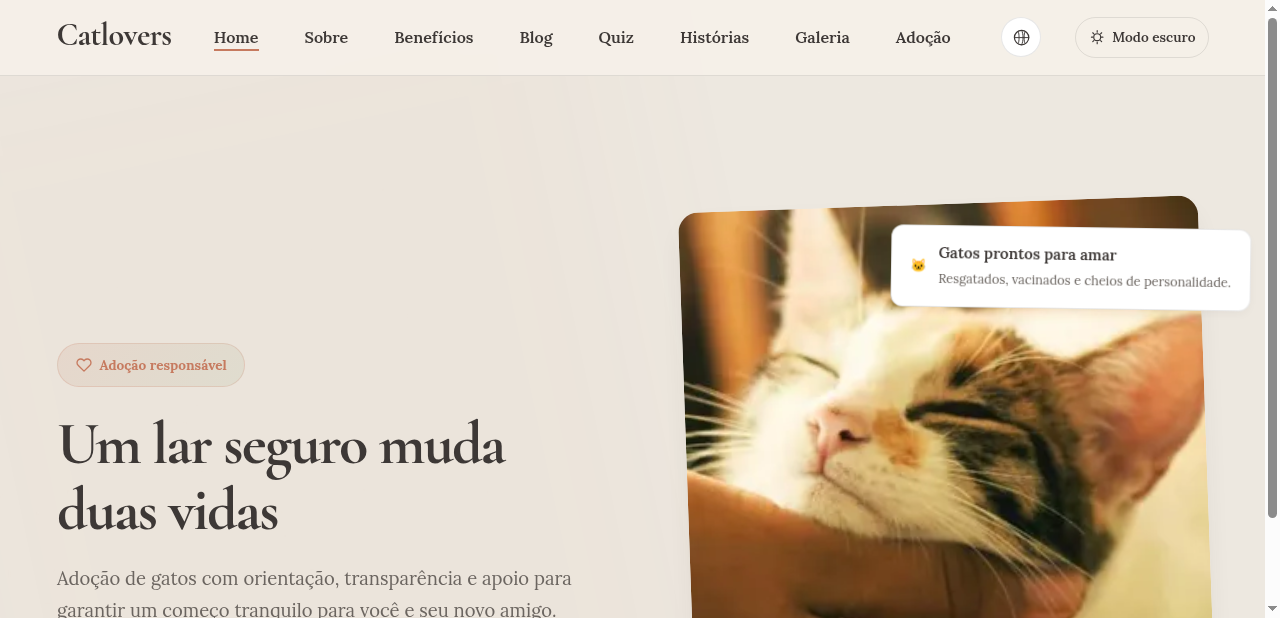
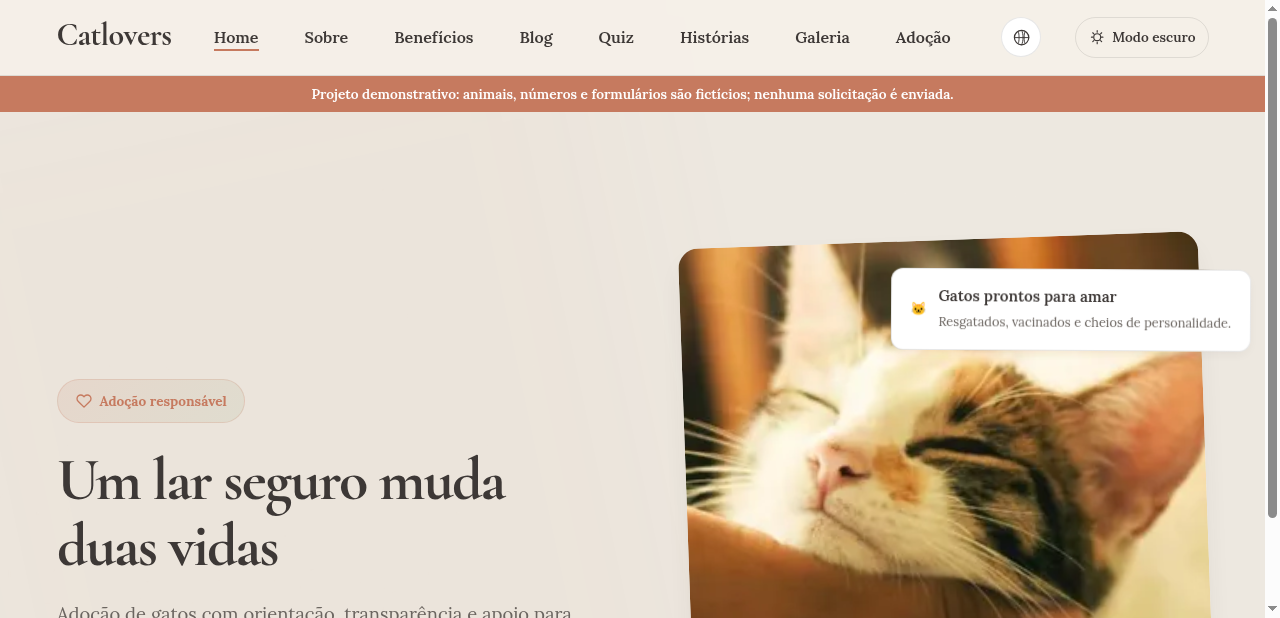
fix(product): label demonstration flows honestly

diff --git a/js/form-validation.js b/js/form-validation.js
@@ -1,6 +1,14 @@
 document.addEventListener('DOMContentLoaded', () => {
   const form = document.getElementById('adoption-form');
   if (!form) return;
+  const submitButton = form.querySelector('button[type="submit"]');
+  const originalSubmitI18n = submitButton.getAttribute('data-i18n') || 'form.submit';
+
+  const resetSubmitState = () => {
+    submitButton.setAttribute('data-i18n', originalSubmitI18n);
+    submitButton.classList.remove('button--success');
+    if (window.catloversTranslator) window.catloversTranslator.translatePageTo(window.catloversTranslator.currentLanguage);
+  };
 
   const validateField = (field) => {
     const errorSpan = document.getElementById(`${field.id}-error`);
@@ -31,9 +39,7 @@ document.addEventListener('DOMContentLoaded', () => {
     return isValid;
   };
 
-  const delay = (ms) => new Promise(resolve => setTimeout(resolve, ms));
-
-  form.addEventListener('submit', async (e) => {
+  form.addEventListener('submit', (e) => {
     e.preventDefault();
 
     let isFormValid = true;
@@ -46,27 +52,10 @@ document.addEventListener('DOMContentLoaded', () => {
     });
 
     if (isFormValid) {
-      // Simulate form submission
-      const btn = form.querySelector('button');
-      const originalI18n = btn.getAttribute('data-i18n') || 'form.submit';
-
-      btn.setAttribute('data-i18n', 'form.sending');
-      if (window.catloversTranslator) window.catloversTranslator.translatePageTo(window.catloversTranslator.currentLanguage);
-      btn.disabled = true;
-
-      await delay(1500);
-
-      btn.setAttribute('data-i18n', 'form.success');
-      btn.classList.add('button--success');
+      submitButton.setAttribute('data-i18n', 'form.success');
+      submitButton.classList.add('button--success');
       if (window.catloversTranslator) window.catloversTranslator.translatePageTo(window.catloversTranslator.currentLanguage);
       form.reset();
-
-      await delay(3000);
-
-      btn.setAttribute('data-i18n', originalI18n);
-      btn.classList.remove('button--success');
-      if (window.catloversTranslator) window.catloversTranslator.translatePageTo(window.catloversTranslator.currentLanguage);
-      btn.disabled = false;
     } else {
       // Focus on first invalid field for accessibility
       const firstInvalid = form.querySelector('[aria-invalid=\'true\']');
@@ -81,4 +70,10 @@ document.addEventListener('DOMContentLoaded', () => {
       validateField(e.target);
     }
   }, true);
+
+  form.addEventListener('input', () => {
+    if (submitButton.getAttribute('data-i18n') === 'form.success') {
+      resetSubmitState();
+    }
+  });
 });

diff --git a/cypress/e2e/adoption-form.cy.js b/cypress/e2e/adoption-form.cy.js
@@ -1,10 +1,14 @@
 describe('Adoção Page', () => {
   beforeEach(() => {
-    // Acessar a página de adoção localmente
-    cy.visit('/adoption.html');
+    cy.visit('/adoption.html', {
+      onBeforeLoad(win) {
+        win.localStorage.setItem('preferred_language', 'pt_BR');
+      }
+    });
   });
 
   it('deve carregar o formulário de adoção corretamente', () => {
+    cy.get('.demo-notice').should('be.visible').and('contain.text', 'Projeto demonstrativo');
     cy.get('h2[data-i18n="form.title"]').scrollIntoView().should('be.visible');
     cy.get('form#adoption-form').should('be.visible');
   });
@@ -20,14 +24,16 @@ describe('Adoção Page', () => {
     cy.get('#email-error').should('not.be.empty');
   });
 
-  it('deve submeter o formulário quando preenchido corretamente', () => {
+  it('deve validar o formulário sem afirmar que os dados foram enviados', () => {
     cy.get('#name').type('Lucas Alves');
     cy.get('#email').type('lucas@example.com');
     
     cy.get('form#adoption-form button').click();
     
-    // Verifica se o texto do botão muda indicando sucesso
     cy.get('form#adoption-form button')
-      .should('have.attr', 'data-i18n', 'form.success');
+      .should('have.attr', 'data-i18n', 'form.success')
+      .and('contain.text', 'Nenhum dado foi enviado');
+    cy.get('#name').should('have.value', '');
+    cy.get('#email').should('have.value', '');
   });
 });

diff --git a/adoption.html b/adoption.html
@@ -181,7 +181,7 @@
     <div class="container">
       <div class="cta article-footer-box cta--vertical">
         <h2 class="cta__title" data-i18n="form.title">Formulário de Interesse</h2>
-        <p class="cta__text" data-i18n="form.subtitle">Preencha com atenção. Entraremos em contato em breve.</p>
+        <p class="cta__text" data-i18n="form.subtitle">Use este formulário para testar a validação. Os dados não são enviados nem armazenados.</p>
 
         <form class="adoption-form-container" id="adoption-form" novalidate>
           <div class="form-group">

diff --git a/includes/head-common.html b/includes/head-common.html
@@ -172,6 +172,16 @@
       border-bottom: 1px solid var(--cat-border);
     }
 
+    .demo-notice {
+      padding: 0.55rem 1rem;
+      background-color: var(--cat-accent);
+      color: var(--cat-on-accent);
+      font-size: 0.85rem;
+      font-weight: 600;
+      line-height: 1.4;
+      text-align: center;
+    }
+
     /* Container */
     .container {
       width: 100%;

diff --git a/cypress/e2e/i18n.cy.js b/cypress/e2e/i18n.cy.js
@@ -21,6 +21,7 @@ describe('Internacionalização (i18n)', () => {
 
     // Verifica se o título está em inglês
     cy.get('h1').should('contain.text', 'A safe home');
+    cy.get('.demo-notice').should('contain.text', 'Demonstration project');
     cy.get('meta[name="description"]')
       .should('have.attr', 'content')
       .and('contain', 'responsible adoption');

diff --git a/css/main.css b/css/main.css
@@ -72,6 +72,16 @@ header {
   border-bottom: 1px solid var(--cat-border);
 }
 
+.demo-notice {
+  padding: 0.55rem 1rem;
+  background-color: var(--cat-accent);
+  color: var(--cat-on-accent);
+  font-size: 0.85rem;
+  font-weight: 600;
+  line-height: 1.4;
+  text-align: center;
+}
+
 .container {
   width: 100%;
   max-width: 1200px;

diff --git a/includes/header.html b/includes/header.html
@@ -113,3 +113,6 @@
     </nav>
   </div>
 </header>
+<aside class="demo-notice" role="note">
+  <p data-i18n="demo.notice">Projeto demonstrativo: animais, números e formulários são fictícios; nenhuma solicitação é enviada.</p>
+</aside>
